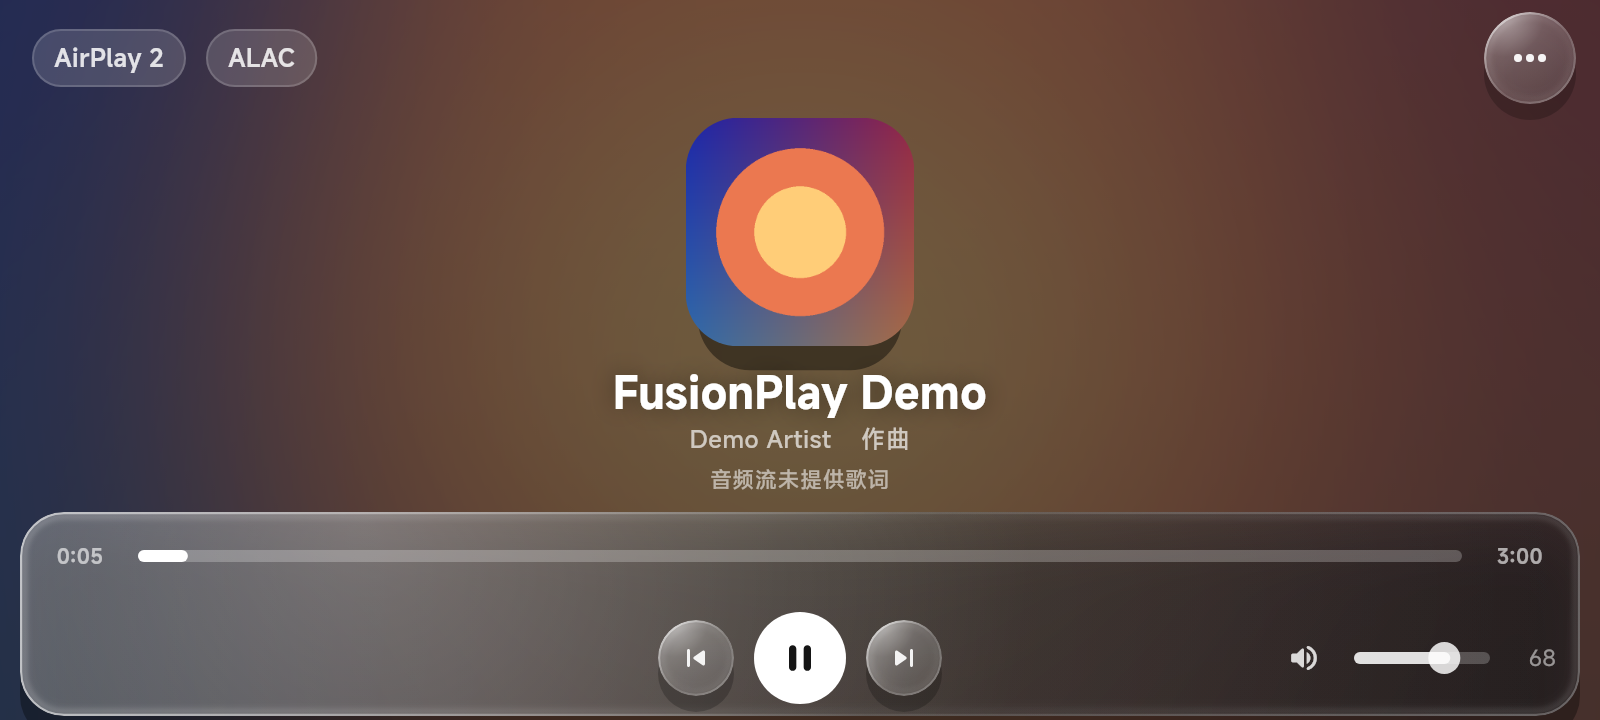
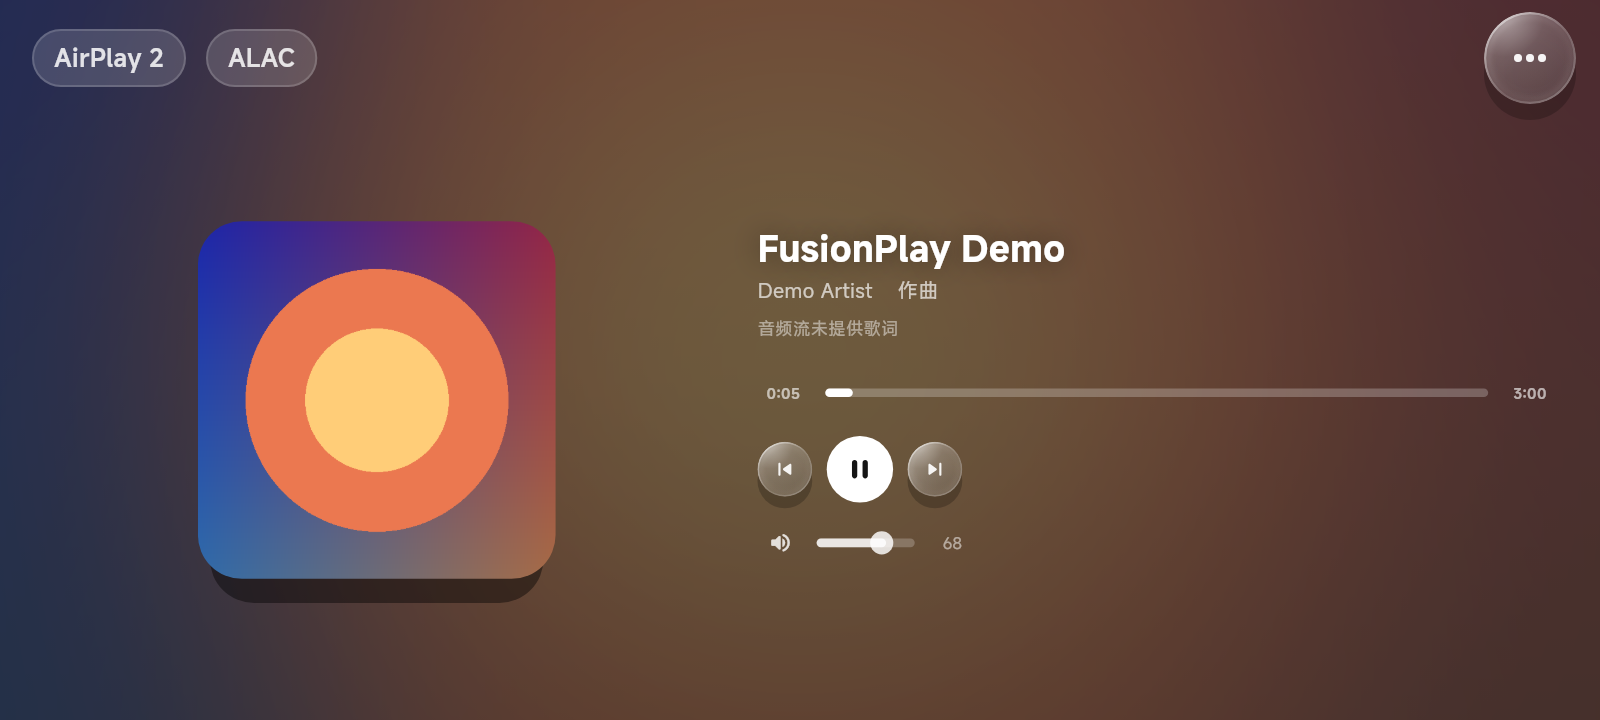
android 1.6.1: redesign the no-lyrics/idle landscape layout too
1.6.0 changed the lyrics two-column layout but kept the old centered+dock
fallback, so opening without lyrics looked unchanged. Add a distinct
cover-left / controls-right no-lyrics landscape layout with inline progress,
transport and volume, and no bottom dock. Empty/idle state uses the same
layout; update tests/docs/screenshots accordingly. Bump 1.6.1 / 10601.

diff --git a/flutter/lib/ui/player_view.dart b/flutter/lib/ui/player_view.dart
@@ -570,10 +570,10 @@ class _PlayerViewState extends State<PlayerView> {
         final compactChrome = outer.maxHeight < 430;
         final reduceMotion = _reduceMotion;
         final showLyrics = _showLyricsLayout;
-        final inlinePlayerControls = landscape && showLyrics;
-        final body = showLyrics
-            ? (landscape ? _landscapeBody() : _portraitBody())
-            : _centeredBody(landscape: landscape);
+        final inlinePlayerControls = landscape;
+        final body = landscape
+            ? (showLyrics ? _landscapeBody() : _appleNoLyricsBody())
+            : (showLyrics ? _portraitBody() : _centeredBody(landscape: false));
         return Column(
           children: [
             _topBar(landscape: landscape, compact: compactChrome),
@@ -1164,6 +1164,108 @@ class _PlayerViewState extends State<PlayerView> {
     // Neutral runtime wording: never claim the protocol lacks lyric support.
     if (channel == PlaybackChannel.airPlay) return copy.description;
     return copy.title;
+  }
+
+  /// Apple Music-style no-lyrics landscape: one large cover with the real
+  /// transport/progress/volume column beside it. No empty lyrics column, and no
+  /// bottom dock (the same inline controls are used when lyrics are present).
+  Widget _appleNoLyricsBody() {
+    final playback = widget.state.playback;
+    final (title, artist) = _displayMetadata(playback);
+    final hiddenByUser = _lyricsSupported && _hasDisplayableLyrics;
+    final hint = hiddenByUser ? null : _centeredHint(playback);
+    return Padding(
+      key: const ValueKey('player-layout-horizontal'),
+      padding: const EdgeInsets.fromLTRB(22, 2, 22, 16),
+      child: LayoutBuilder(
+        builder: (context, content) {
+          final compact = content.maxHeight < 360;
+          final cover = math
+              .min(content.maxWidth * .34, content.maxHeight * .62)
+              .clamp(110.0, 380.0)
+              .toDouble();
+          final rightWidth = content.maxWidth - cover - (compact ? 24 : 40);
+          final column = Column(
+            key: const ValueKey('player-centered-layout'),
+            mainAxisAlignment: MainAxisAlignment.center,
+            crossAxisAlignment: CrossAxisAlignment.stretch,
+            children: [
+              Text(
+                title,
+                maxLines: compact ? 1 : 2,
+                overflow: TextOverflow.ellipsis,
+                style: TextStyle(
+                  fontSize: compact ? 24.0 : 32.0,
+                  height: 1.18,
+                  color: Colors.white,
+                  fontWeight: FusionTypography.semiBoldFontWeight,
+                  fontVariations: FusionTypography.semiBold,
+                  shadows: const [
+                    Shadow(blurRadius: 22, color: Color(0x66000000)),
+                  ],
+                ),
+              ),
+              if (artist != null && artist.isNotEmpty) ...[
+                const SizedBox(height: 5),
+                Text(
+                  artist,
+                  maxLines: 1,
+                  overflow: TextOverflow.ellipsis,
+                  style: TextStyle(
+                    fontSize: compact ? 14.0 : 16.0,
+                    color: Colors.white.withValues(alpha: .68),
+                  ),
+                ),
+              ],
+              if (hint != null) ...[
+                const SizedBox(height: 8),
+                Text(
+                  hint,
+                  maxLines: 1,
+                  overflow: TextOverflow.ellipsis,
+                  style: TextStyle(
+                    fontSize: 12,
+                    color: Colors.white.withValues(alpha: .48),
+                  ),
+                ),
+              ],
+              SizedBox(height: compact ? 16 : 24),
+              _progressRow(compact: compact),
+              SizedBox(height: compact ? 10 : 16),
+              _transport(compact: compact),
+              SizedBox(height: compact ? 8 : 14),
+              Align(
+                alignment: Alignment.centerLeft,
+                child: _volumeControls(compact: compact),
+              ),
+            ],
+          );
+          return Row(
+            crossAxisAlignment: CrossAxisAlignment.stretch,
+            children: [
+              Expanded(
+                flex: 5,
+                child: Center(
+                  child: _breathingArtwork(
+                    size: cover,
+                    child: _artworkCard(cover, radius: compact ? 22 : 30),
+                  ),
+                ),
+              ),
+              SizedBox(width: compact ? 24 : 40),
+              Expanded(
+                flex: 6,
+                child: FittedBox(
+                  fit: BoxFit.scaleDown,
+                  alignment: Alignment.center,
+                  child: SizedBox(width: rightWidth, child: column),
+                ),
+              ),
+            ],
+          );
+        },
+      ),
+    );
   }
 
   /// Single-column centered layout used when no lyrics can be displayed:

diff --git a/flutter/test/lyrics_player_test.dart b/flutter/test/lyrics_player_test.dart
@@ -680,26 +680,22 @@ void main() {
     expect(tester.takeException(), isNull);
   });
 
-  testWidgets('手机横屏空态完整显示在 dock 上方（不被裁切/重叠）', (tester) async {
-    await _pumpPlayer(
-      tester,
-      const AppState(initialized: true),
-      size: const Size(800, 360),
-    );
+  testWidgets('横屏空态使用封面+控制双区，不再被底部 dock 挤压', (tester) async {
+    await _pumpPlayer(tester, _state(), size: const Size(800, 360));
 
-    expect(find.text('暂无音乐'), findsOneWidget);
+    expect(find.text('Track'), findsOneWidget);
     expect(find.text('暂无歌词'), findsOneWidget);
-    final hintBottom = tester.getBottomRight(find.text('暂无歌词')).dy;
-    final dockTop = tester
-        .getTopLeft(find.byKey(const ValueKey('player-dock')))
-        .dy;
-    expect(hintBottom, lessThanOrEqualTo(dockTop), reason: '空态提示不能被底部 dock 覆盖');
+    expect(find.byKey(const ValueKey('player-dock')), findsNothing);
+    expect(
+      find.byKey(const ValueKey('playback-play-pause-button')),
+      findsOneWidget,
+    );
+    expect(find.byKey(const ValueKey('volume-slider')), findsOneWidget);
     expect(tester.takeException(), isNull);
   });
 
-  testWidgets('dock 中播放按钮在进度条与屏幕底部之间垂直居中', (tester) async {
+  testWidgets('无歌词横屏播放按钮与进度/音量同列可用', (tester) async {
     await _pumpPlayer(tester, _state(), size: const Size(800, 360));
-    // Let the control entrance (5px translate) settle before measuring.
     await tester.pump(const Duration(milliseconds: 400));
 
     final play = tester.getRect(
@@ -708,9 +704,10 @@ void main() {
     final progress = tester.getRect(
       find.byKey(const ValueKey('player-progress-bar')),
     );
-    final gapAbove = play.top - progress.bottom;
-    final gapBelow = 360 - play.bottom;
-    expect(gapAbove, closeTo(gapBelow, 0.5), reason: '播放按钮上下留白应一致，而不是偏向底部');
+    expect(play.top, greaterThan(progress.bottom));
+    expect(play.left, greaterThan(0));
+    expect(play.right, lessThanOrEqualTo(800));
+    expect(find.byKey(const ValueKey('volume-slider')), findsOneWidget);
   });
 
   testWidgets('播放中本地时钟/呼吸动画不抛异常，退出后释放', (tester) async {

diff --git a/flutter/lib/ui/settings_view.dart b/flutter/lib/ui/settings_view.dart
@@ -15,7 +15,7 @@ import 'vector_icon.dart';
 
 const fusionPlayVersion = String.fromEnvironment(
   'FUSIONPLAY_VERSION',
-  defaultValue: '1.6.0',
+  defaultValue: '1.6.1',
 );
 
 /// Dark liquid-glass palette used by the settings panel. The outer

diff --git a/docs/update/android/notes.md b/docs/update/android/notes.md
@@ -1,39 +1,19 @@
-## FusionPlay Android 1.6.0
+## FusionPlay Android 1.6.1
 
-### 播放页视觉重构：Apple Music 风格横屏 + Liquid Glass
+### 无歌词/空态也改为新播放页布局
 
-这次是 UI 重构，不是播放功能重写；所有协议、歌词、播放控制、焦点和菜单能力保留。
+1.6.0 只在「有歌词」时启用 Apple Music 双栏，无歌词/未播放时仍是旧的居中布局，
+看起来可能“和以前一样”。1.6.1 修正：
 
-**有歌词**
+- 横屏无歌词/空态不再使用旧的整宽底部 dock：改为**大封面 + 右侧歌曲/作者/进度/上一曲/播放/下一曲/音量/静音**。
+- 不再渲染空白歌词列；无歌词提示保留为次要一行。
+- 有歌词/无歌词共用同一套内联控制列，切换时不再从“左栏控制”跳成“底部 dock”。
+- 保留有歌词双栏、加载骨架、AirPlay 标题歌词、焦点/菜单/能力判断。
+- 顶部协议与音质 chip 保留。
 
-- 横屏改为左右双栏：左侧封面、歌曲/作者、播放进度与时间、上一曲/播放/暂停/下一曲、音量与静音；右侧为 Liquid Glass 歌词面板。
-- 右侧继续使用现有 `LyricsView`：同步歌词、逐字高亮、静态歌词、手动滚动/返回当前行、AirPlay 标题歌词流均保留。
-- 歌词显示/隐藏、切歌重置、加载中骨架状态保留；加载中不再闪屏或反复翻转封面。
-- 顶部保留协议与音质信息、歌词开关、更多菜单。
-
-**无歌词 / 隐藏歌词**
-
-- 不再渲染空白歌词列；使用放大的封面居中布局，播放/进度/音量/静音完整保留。
-- 发送端未提供歌词的提示保留为次要说明，不占据页面中心。
-
-**Liquid Glass**
-
-- 统一 `LiquidGlass` token 与降级路径；新增边缘 lens band、底部 caustic、顶部镜面高光与厚度渐变。
-- 主要应用于歌词面板、播放/上一曲/下一曲、音量、歌词开关和菜单按钮；不做整页玻璃。
-- 真实屏幕空间折射 shader 仍**未启用**（Android Impeller 白帧/反馈历史问题），当前是高质量降级实现，不把普通透明卡片说成真实折射。
-
-**适配**
-
-- 覆盖 800×360、960×540、1280×800 等横屏尺寸；短屏左栏整体按比例缩放，不裁切控制。
-- 遥控器/键盘方向键焦点、返回、菜单与现有设置页样式继续使用原有逻辑。
-
-**验证**
-
-- Flutter 播放器布局/歌词/加载/AirPlay 标题歌词/焦点/音量测试已更新；详情见 `docs/PLAYER_REDESIGN.md`。
-- 调试截图：`docs/player-redesign/`。
-- 尚未在真实 Android 设备上逐帧测 60 FPS；大型歌词玻璃面板是主要 GPU 成本。
+如果仍看到旧界面，请到「设置 → 关于」确认版本为 **1.6.1 / 10601**；更新后需完全退出重开。
 
 ### 安装
 
-- 版本 1.6.0 / versionCode 10600，可直接覆盖 1.5.1。
+- 版本 1.6.1 / versionCode 10601，可直接覆盖 1.6.0。
 - 1.3.4+ 可在「设置 → 检查更新」升级。

diff --git a/docs/PLAYER_REDESIGN.md b/docs/PLAYER_REDESIGN.md
@@ -50,8 +50,7 @@ Column
 
 ### 无歌词 / 用户主动隐藏歌词
 
-不渲染空白歌词列。沿用现有居中封面布局并保留底部玻璃 dock：
-封面放大、歌曲/作者、进度、播放控制、音量、静音完整可达；发送端未提供歌词的提示保留为次要说明，不占视觉中心。
+不渲染空白歌词列，也不再使用旧版整宽底部 dock。横屏改为**大封面 + 右侧歌曲/作者/进度/播放控制/音量/静音**的独立布局（`_appleNoLyricsBody`）；发送端未提供歌词的提示保留为次要一行。空态与无歌词共用这一布局，因此启动后也能看出播放页已重构。
 
 ### 加载中
 
